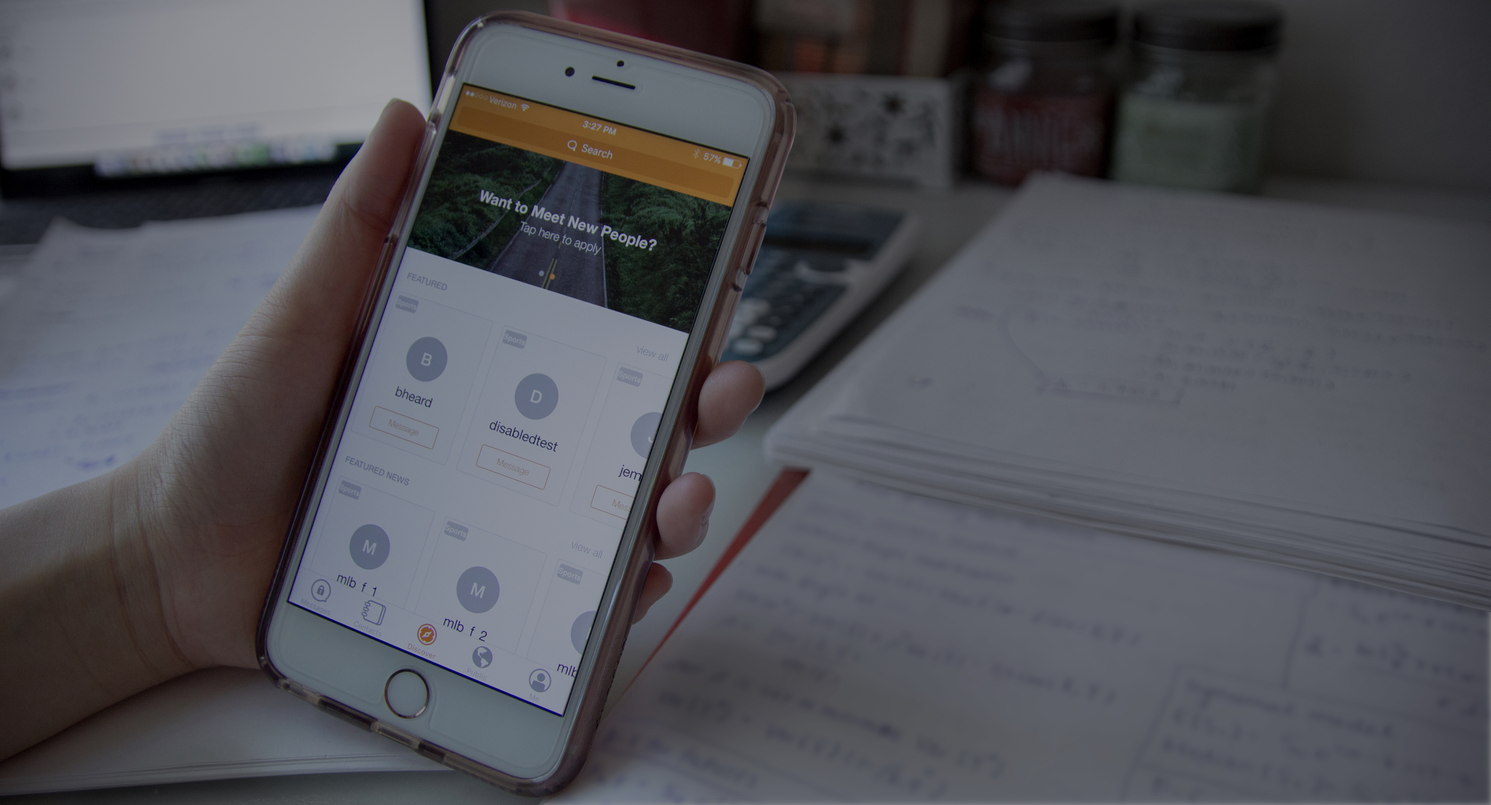
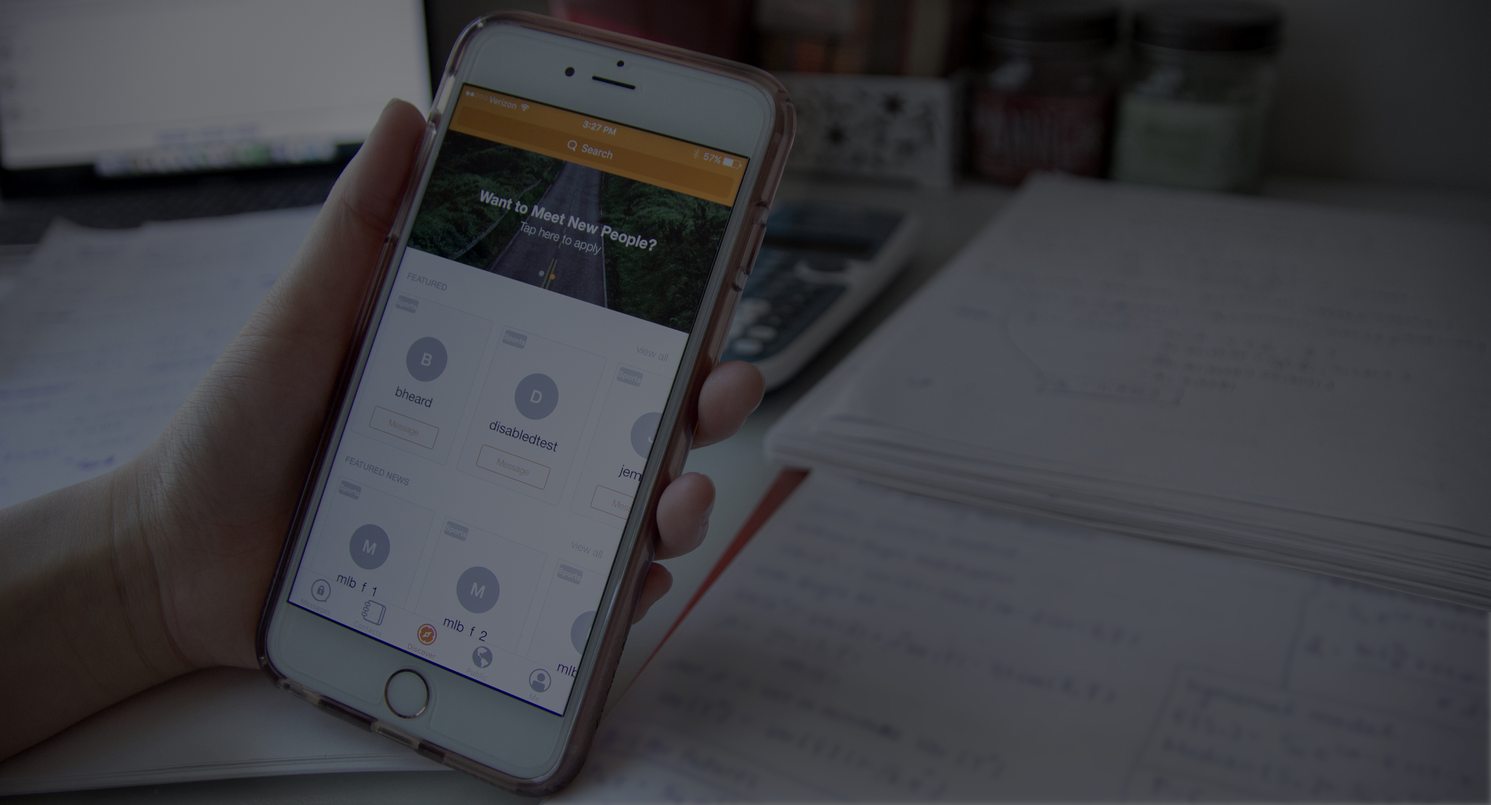
dustcover

diff --git a/duststyle.css b/duststyle.css
@@ -97,8 +97,20 @@ ul li {
 	padding-right: .25em;
 }
 
-.dustcover {
+/*.dustcover {
 	width: 100%;
+}*/
+
+.coverphoto {	
+	background-image: url(dustcoverphoto.jpg);
+	background-position: center center;
+	background-repeat: no-repeat;
+	background-size: cover;
+	height: 200px;
+}
+
+.descriptionalt {
+	display: none;
 }
 
 .description {
@@ -355,6 +367,27 @@ footer p{
 
 
 @media screen and (min-width: 1024px){
+
+.descriptionalt {
+	display: block;
+	text-align: center;
+	padding: 14em 0;
+}
+
+.descriptionalt h1 {
+	font-size: 4em;
+	text-transform: uppercase;
+	color: #fff;
+}
+
+.descriptionalt p {
+	color: #fff;
+	font-weight: lighter;
+	max-width: 40em;
+	margin: .5em auto;
+	line-height: 1.75em;
+	letter-spacing: .15em;
+}
 
 .coverphoto {
 	height: 600px;

diff --git a/dust.html b/dust.html
@@ -76,7 +76,12 @@
 		</div>
 
 		<div class="coverphoto">
-			<img class="dustcover" src="dustcoverphoto.jpg">
+			<!--<img class="dustcover" src="dustcoverphoto.jpg">-->
+			<div class="descriptionalt">
+				<h1>Dust</h1>
+				<p>Dust is a private mobile messenging application. Send public post to all your followers, or send secure messages that can be deleted permanently on the other persons device.
+				</p>
+			</div>
 		</div>
 
 		<div class="description">
